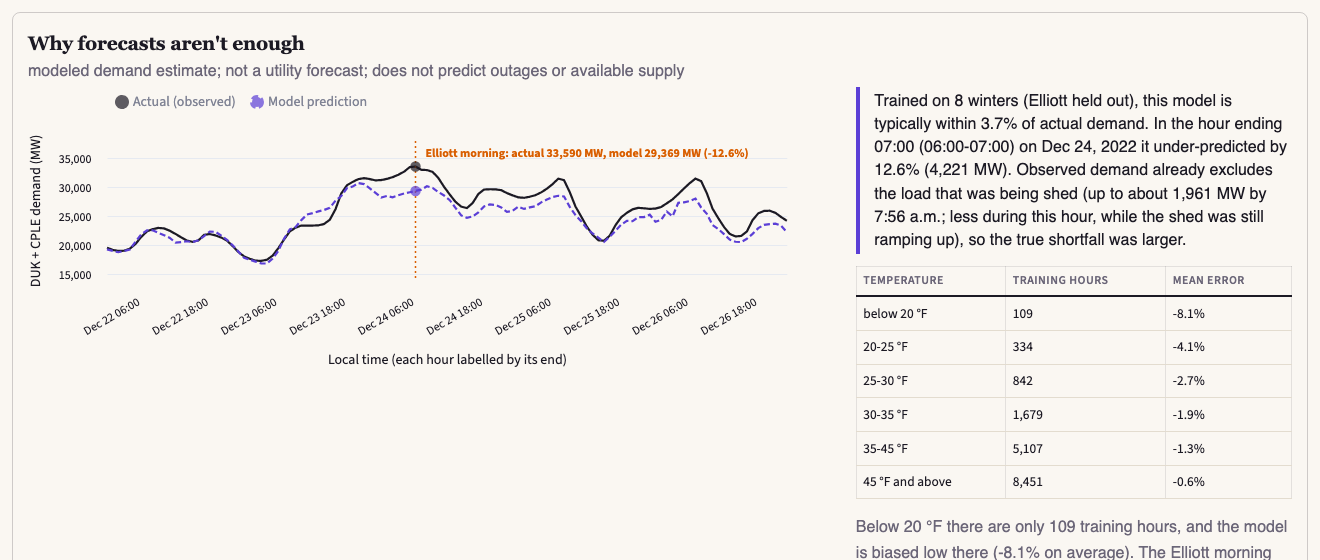
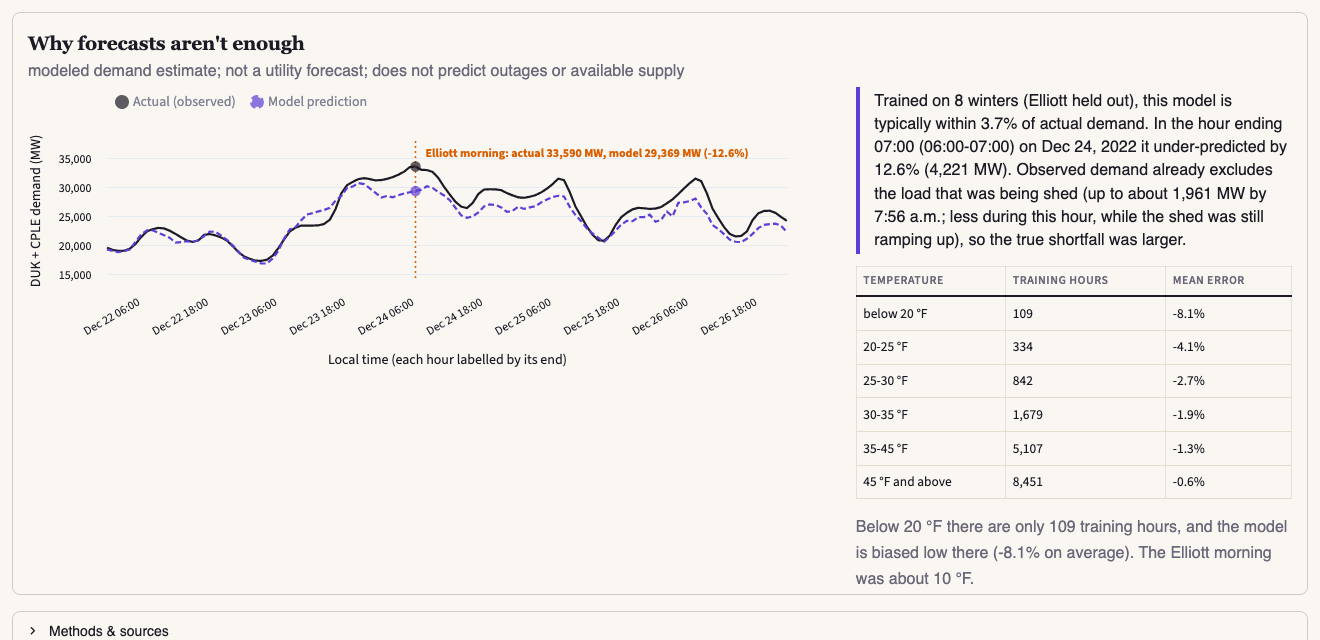
Screenshots: taller demand-panel crop

diff --git a/scripts/app_screenshots.py b/scripts/app_screenshots.py
@@ -51,7 +51,7 @@ def main() -> int:
             if name == "app_default":  # the demand panel, cropped from the full-height page
                 box = page.get_by_text("Why forecasts aren't enough").first.bounding_box()
                 page.screenshot(path=str(out / "app_demand_panel.png"),
-                                clip={"x": 60, "y": box["y"] - 28, "width": 1320, "height": 560})
+                                clip={"x": 60, "y": box["y"] - 28, "width": 1320, "height": 640})
             report[name] = {"scrollWidth/clientWidth": sw, "external_hosts": sorted(external), "console_errors": console_errors[:3],
                             "banned_words": hits, "has_required_sentence": REQUIRED_SENTENCE in re.sub(r"\s+", " ", text_all),
                             "canvases": page.locator("canvas").count()}
